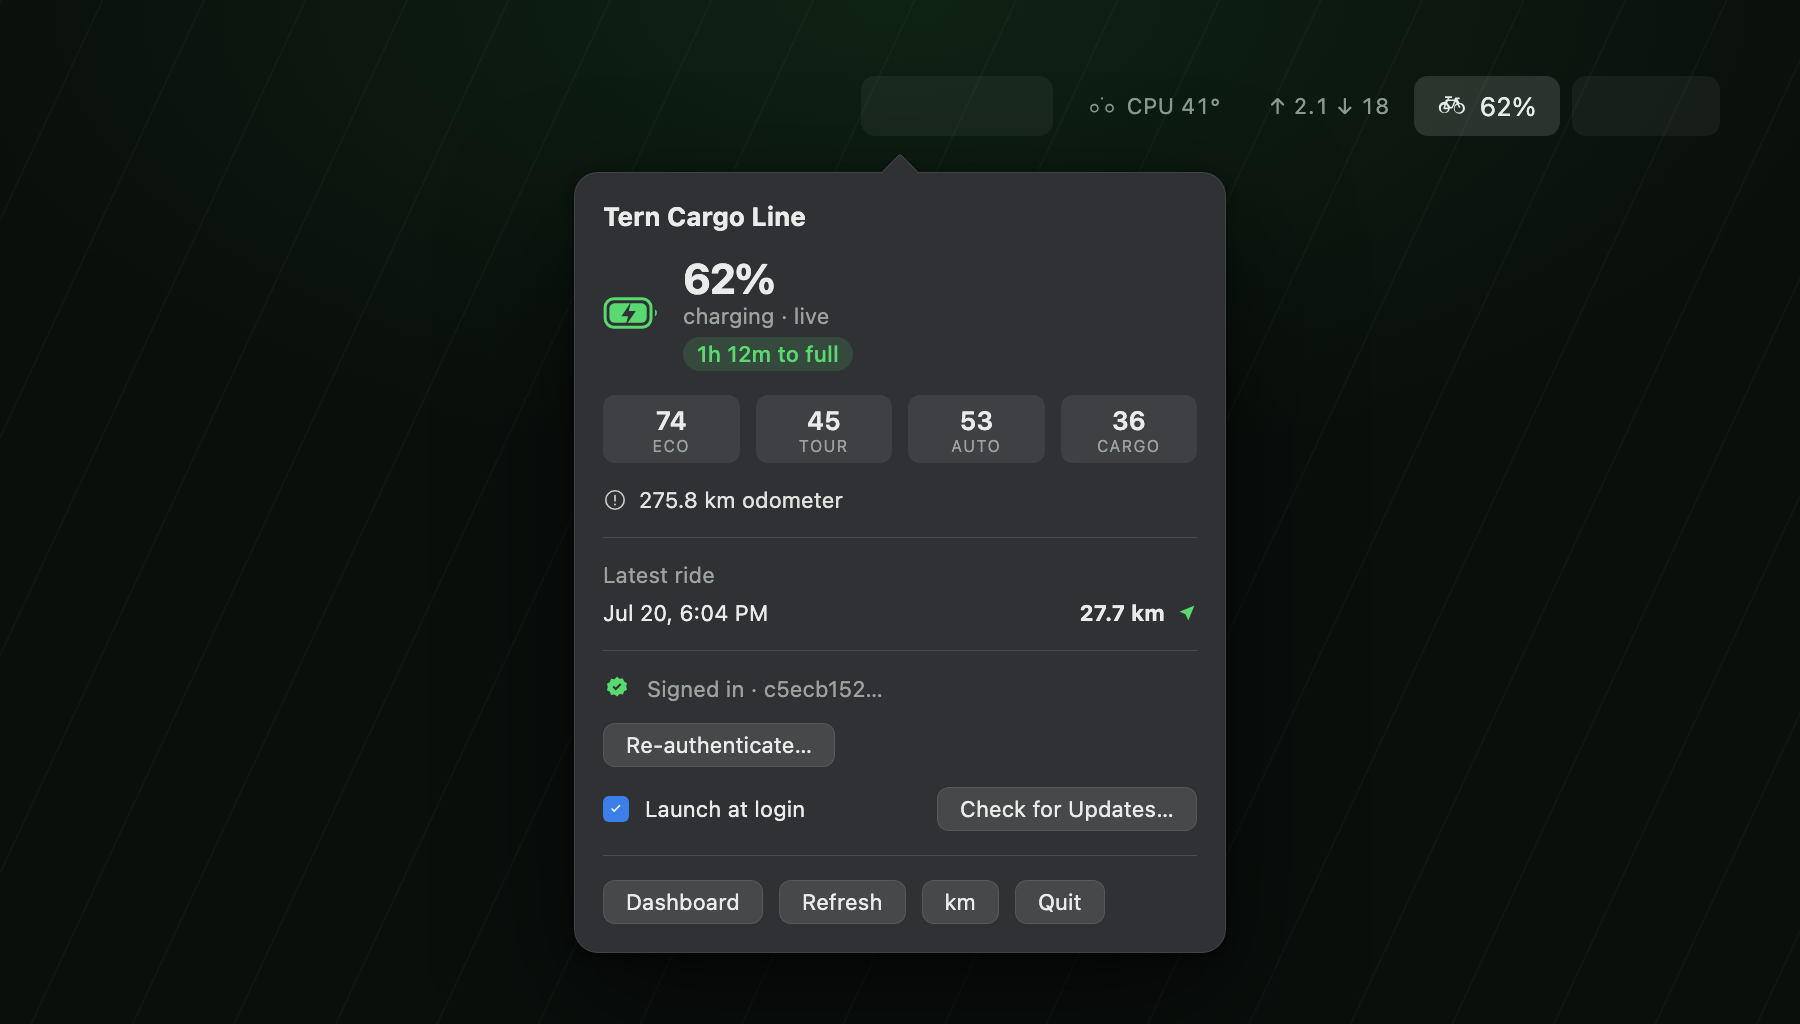
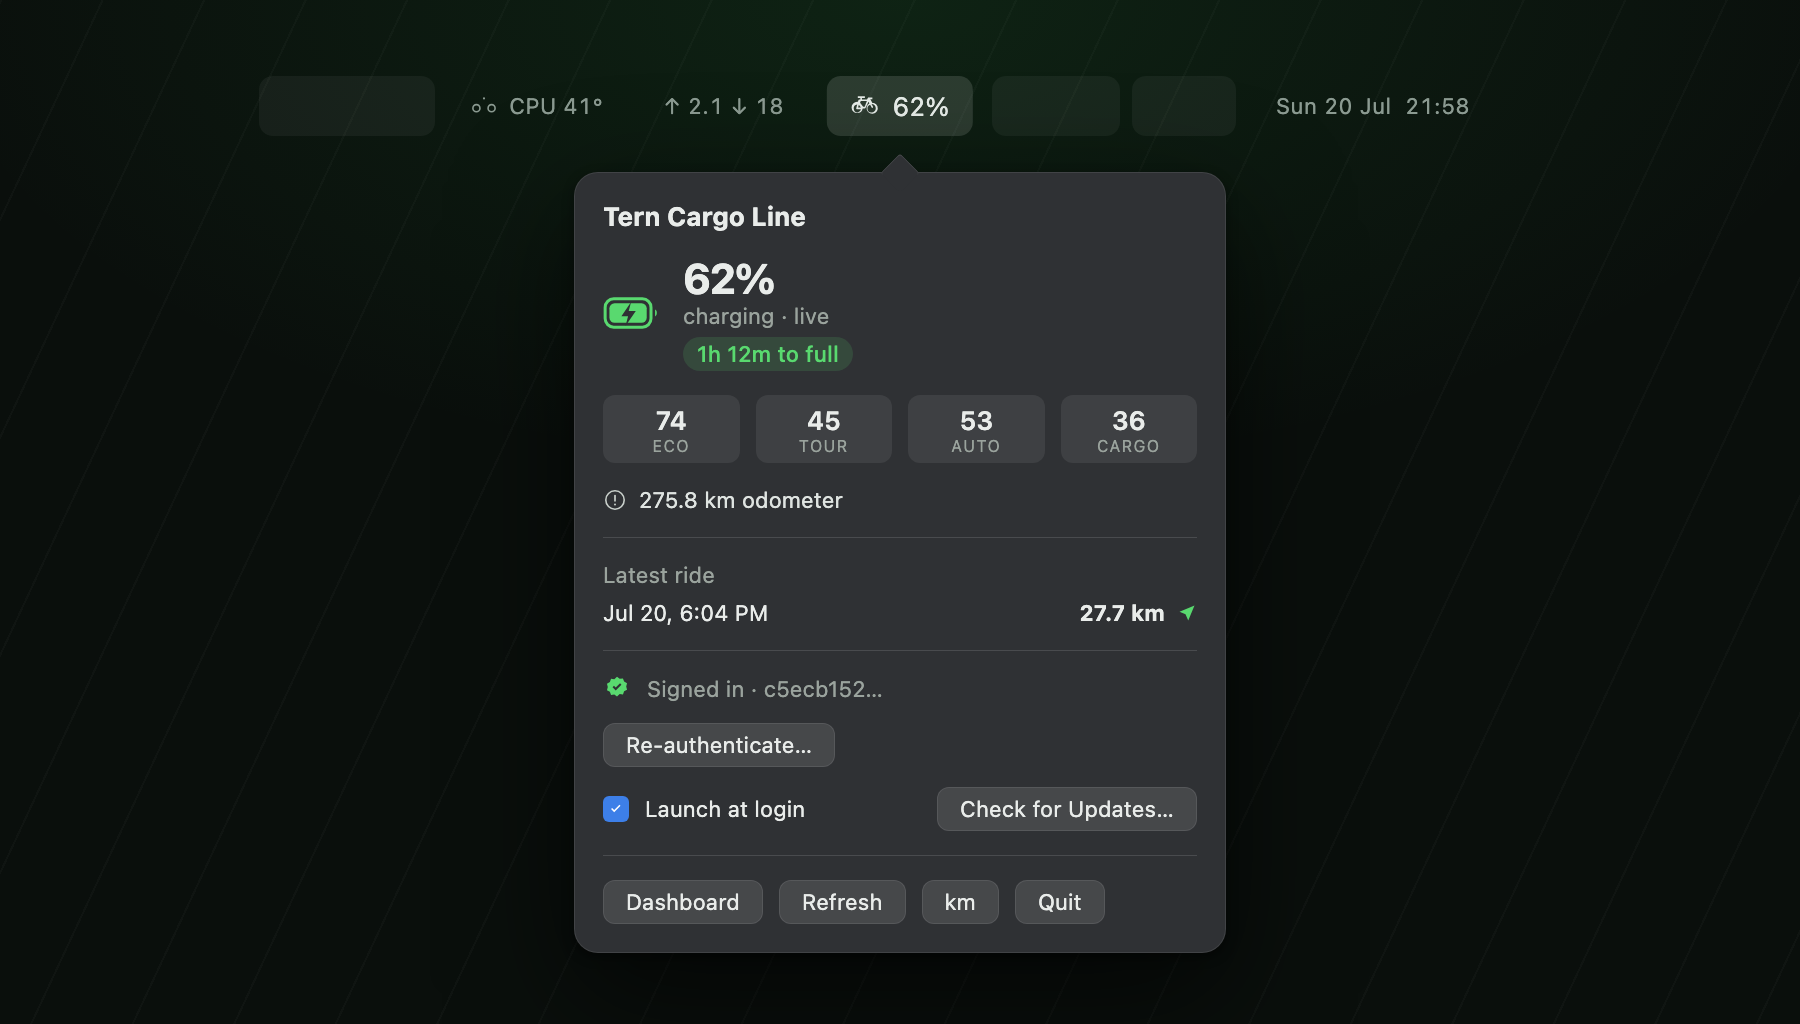
Fix hero image, install command wrapping, dashboard title
The hero shipped in dc2e84b was the pre-fix render — the menu bar item sat
right-aligned while the popover arrow pointed at centre. Swap in the corrected
composite.

Install command is inline-block + nowrap so it stays on one line on desktop and
caps at the container width (scrolling internally) on mobile, instead of
breaking mid-URL.

Dashboard tab title now reads Bike Bar.

diff --git a/website/index.html b/website/index.html
@@ -221,8 +221,8 @@
     }
 
     .install-cmd {
-      display: block;
-      margin: 8px auto 0;
+      display: inline-block;
+      margin-top: 8px;
       padding: 10px 16px;
       background: rgba(255,255,255,0.06);
       border: 1px solid rgba(255,255,255,0.1);
@@ -231,8 +231,9 @@
       font-size: 12px;
       color: #a2b0a8;
       cursor: pointer;
-      max-width: 520px;
-      word-break: break-all;
+      max-width: 100%;
+      white-space: nowrap;
+      overflow-x: auto;
     }
 
     .install-cmd:hover {

diff --git a/web/index.html b/web/index.html
@@ -3,7 +3,7 @@
 <head>
 <meta charset="utf-8">
 <meta name="viewport" content="width=device-width, initial-scale=1">
-<title>Bosch Bar · Bike Cockpit</title>
+<title>Bike Bar · Bike Cockpit</title>
 <link rel="stylesheet" href="https://unpkg.com/leaflet@1.9.4/dist/leaflet.css"/>
 <style>
   :root{